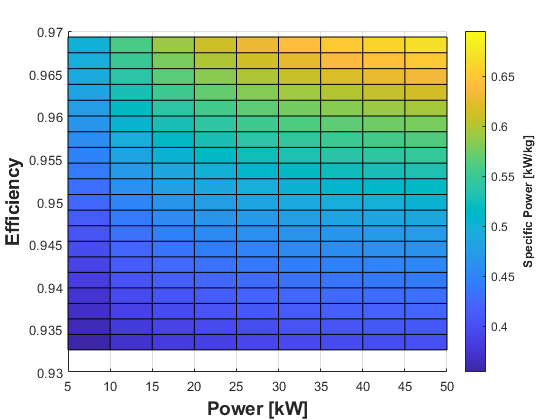
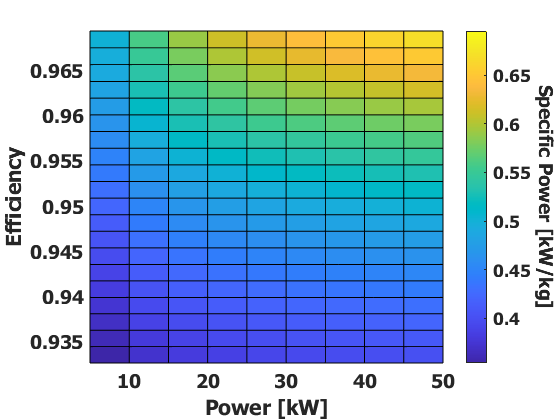
Uploaded new figures
Changed font in ddcu_all_flat, ddcu_alone_flat, ddcu_radiatior_flat

Changed region(s): [[0.0, 0.0619, 1.0, 1.0], [0.0607, 0.8667, 0.1518, 0.9286]]

diff --git a/plots_3D.m b/plots_3D.m
@@ -291,7 +291,8 @@ DDCU_specific_power_mesh = Pout./DDCU_mass_mesh;
 fig8 = surf(power_mesh, efficiency_mesh, DDCU_specific_power_mesh);
 view(0, 90);
 %colorbar
-ylabel(colorbar, 'Specific Power [kW/kg]');
+ylabel(colorbar,'Specific Power [kW/kg]','FontSize',14, 'FontName', 'Tahoma', 'FontWeight', 'Bold',...
+    'Rotation',270);
 
 xlabel('Power [kW]')
 xlim([power_mesh(1, 1)  power_mesh(end, end)]);
@@ -302,7 +303,7 @@ ylim([efficiency_mesh(1, 1)  efficiency_mesh(end, end)]);
 % colorbar
 
 
-fig8.Parent.FontName = 'Times New Roman';
+fig8.Parent.FontName = 'Tahoma';
 fig8.Parent.FontWeight = 'Bold';
 fig8.Parent.FontSize = 14;
 hold on
@@ -461,9 +462,11 @@ xlim([power_mesh(1, 1)  power_mesh(end, end)]);
 ylabel('Efficiency')
 ylim([efficiency_mesh(1, 1)  efficiency_mesh(end, end)]);
 
-ylabel(colorbar,'Specific Power [kW/kg]');
+ylabel(colorbar,'Specific Power [kW/kg]','FontSize',14, 'FontName', 'Tahoma', 'FontWeight', 'Bold',...
+    'Rotation',270);
+%ylabel(a,'Specific Power [kW/kg]', 'FontName', 'Tahoma');
 
-fig12.Parent.FontName = 'Times New Roman';
+fig12.Parent.FontName = 'Tahoma';
 fig12.Parent.FontWeight = 'Bold';
 fig12.Parent.FontSize = 14;
 view(0, 90)
@@ -502,8 +505,9 @@ xlim([power_mesh(1, 1)  power_mesh(end, end)]);
 ylabel('Efficiency')
 ylim([efficiency_mesh(1, 1)  efficiency_mesh(end, end)]);
 
-ylabel(colorbar,'Specific Power [kW/kg]')
-fig13.Parent.FontName = 'Times New Roman';
+ylabel(colorbar,'Specific Power [kW/kg]','FontSize',14, 'FontName', 'Tahoma', 'FontWeight', 'Bold',...
+    'Rotation',270);
+fig13.Parent.FontName = 'Tahoma';
 fig13.Parent.FontWeight = 'Bold';
 fig13.Parent.FontSize = 14;
 
